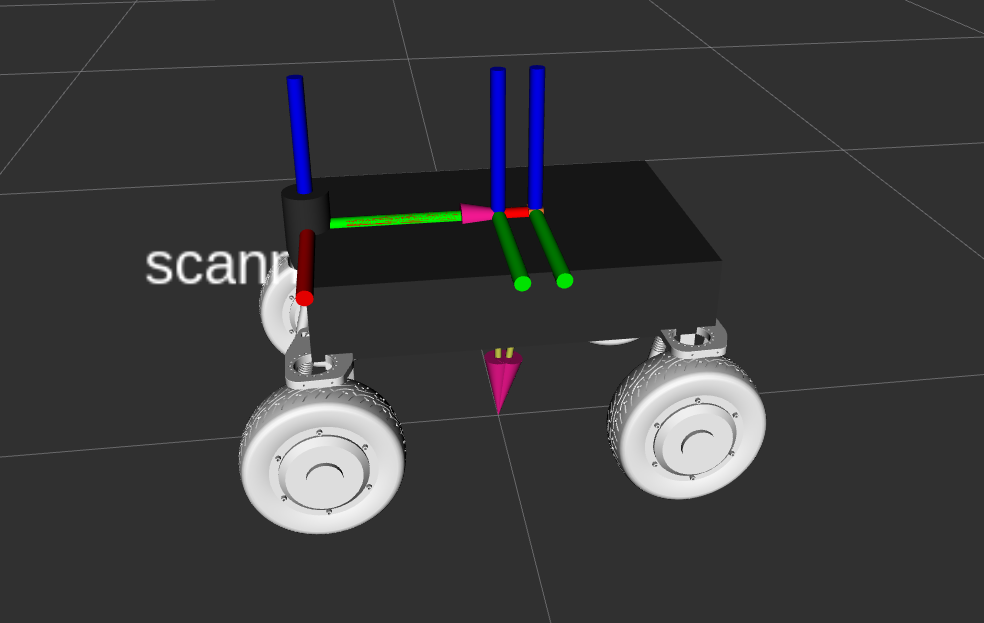
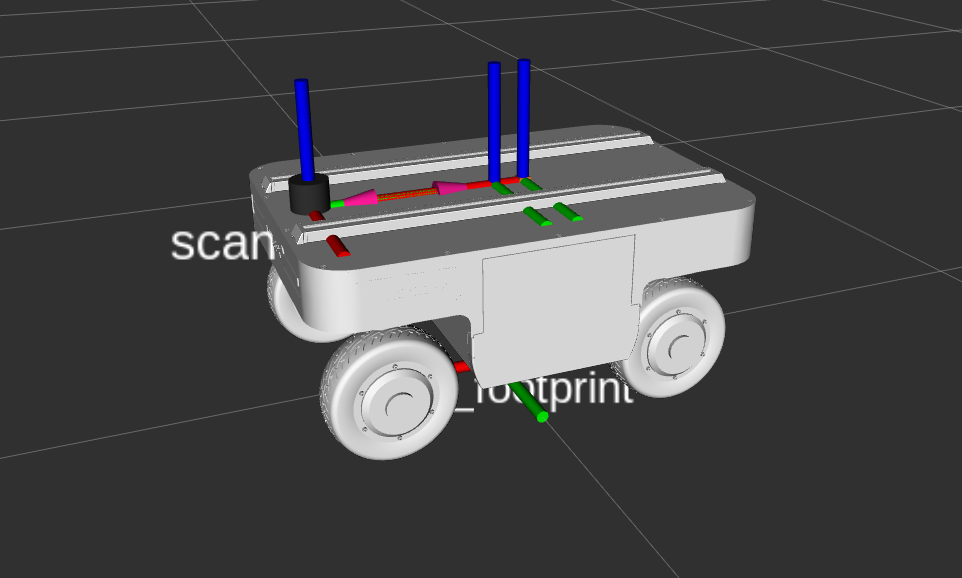
readme

diff --git a/README.md b/README.md
@@ -1,0 +1,23 @@
+# 使用cartographer+navigation进行建图定位导航
+
+![项目图片](./Doc/ranger_mode.png)
+
+## 元件清单
+
+- 底盘：ranger_mini-v2
+- 激光雷达：pf的R2000
+- IMU：taobotics的A9
+- 主控：jeston nano 8GB
+- 其他：明纬50V转24V电源、明纬50V转5V电源
+
+## 技术栈
+
+- 建图：使用cartographer（imu+laser）
+- 定位：使用cartographer的纯定位（imu+laser）
+- 导航：使用navigation+teb_local_planner
+
+## 更新日志
+
+- 初步大框架
+- ranger_mini_urdf修正完成
+- 修改imu为imu_link，机器人为base_link。成功部署carlike
